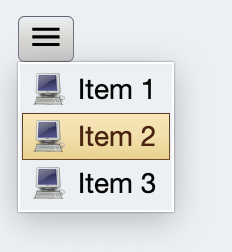
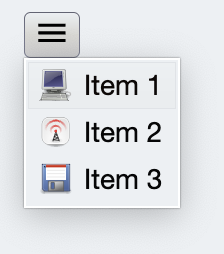
Tweak the command demo

Changed region(s): [[0.0625, 0.0278, 0.8125, 0.8611], [0.3438, 0.6667, 0.7188, 0.7778], [0.3438, 0.2778, 0.7188, 0.4167]]

diff --git a/demo/src/desktopMain/kotlin/org/pushingpixels/aurora/demo/CustomCommand.kt b/demo/src/desktopMain/kotlin/org/pushingpixels/aurora/demo/CustomCommand.kt
@@ -60,7 +60,7 @@ data class CustomMenuContentModel(
 
 class CommandButtonLayoutManagerCustom(
     override val layoutDirection: LayoutDirection,
-    private val _density: Density
+    _density: Density
 ) : CommandButtonLayoutManager {
     override val density = _density.density
     override val fontScale = _density.fontScale
@@ -98,7 +98,7 @@ class CommandButtonLayoutManagerCustom(
             texts = emptyList(),
             extraTexts = emptyList(),
             isTextInActionArea = false,
-            separatorOrientation = CommandButtonLayoutManager.CommandButtonSeparatorOrientation.Vertical,
+            separatorOrientation = null,
             showPopupIcon = false
         )
     }
@@ -110,10 +110,10 @@ class CommandButtonLayoutManagerCustom(
         preLayoutInfo: CommandButtonLayoutManager.CommandButtonPreLayoutInfo
     ): CommandButtonLayoutManager.CommandButtonLayoutInfo {
         val preferredSize = getPreferredSize(command, presentationModel, preLayoutInfo)
-        val paddingTop = presentationModel.verticalGapScaleFactor *
-                presentationModel.contentPadding.topPadding.toPx()
-        val paddingBottom = presentationModel.verticalGapScaleFactor *
-                presentationModel.contentPadding.bottomPadding.toPx()
+
+        val paddingValues = presentationModel.contentPadding
+        val paddingTop = presentationModel.verticalGapScaleFactor * paddingValues.topPadding.toPx()
+        val paddingBottom = presentationModel.verticalGapScaleFactor * paddingValues.bottomPadding.toPx()
 
         val iconWidth = getPreferredIconSize(command, presentationModel).width.toPx()
         val iconHeight = getPreferredIconSize(command, presentationModel).height.toPx()
@@ -152,8 +152,6 @@ class CommandButtonLayoutManagerCustom(
         if (constraints.hasFixedHeight && (constraints.maxHeight > 0)) {
             finalHeight = constraints.maxHeight.toFloat()
         }
-
-        val paddingValues = presentationModel.contentPadding
 
         val iconTop = paddingTop + (finalHeight - iconHeight - paddingTop - paddingBottom) / 2
         val iconRect = if (ltr) {

diff --git a/demo/src/desktopMain/kotlin/org/pushingpixels/aurora/demo/AuroraCommandDemo.kt b/demo/src/desktopMain/kotlin/org/pushingpixels/aurora/demo/AuroraCommandDemo.kt
@@ -830,12 +830,12 @@ fun AuroraWindowScope.DemoCommandContent(
                                     isActionEnabled = actionEnabled
                                 ), Command(
                                     text = entrySimpleMf.format(arrayOf<Any>(2)),
-                                    icon = computer(),
+                                    icon = network_wireless(),
                                     action = { println("secondary 2 activated!") },
                                     isActionEnabled = actionEnabled
                                 ), Command(
                                     text = entrySimpleMf.format(arrayOf<Any>(3)),
-                                    icon = computer(),
+                                    icon = media_floppy(),
                                     action = { println("secondary 3 activated!") },
                                     isActionEnabled = actionEnabled
                                 )

diff --git a/docs/component/CustomCommandProjections.md b/docs/component/CustomCommandProjections.md
@@ -9,7 +9,7 @@ As detailed in the [overview documentation](MoreCommands.md), Aurora commands ar
 
 Let's take a look at all the pieces that participate in creating a custom application command button projection that looks like this:
 
-<img src="https://raw.githubusercontent.com/kirill-grouchnikov/aurora/icicle/docs/images/component/walkthrough/command-custom-popup-simple.png" width="116" height="126" border=0/>
+<img src="https://raw.githubusercontent.com/kirill-grouchnikov/aurora/icicle/docs/images/component/walkthrough/command-custom-popup-simple.png" width="112" height="127" border=0/>
 
 The requirements are:
 
@@ -201,10 +201,10 @@ override fun getLayoutInfo(
     preLayoutInfo: CommandButtonLayoutManager.CommandButtonPreLayoutInfo
 ): CommandButtonLayoutManager.CommandButtonLayoutInfo {
     val preferredSize = getPreferredSize(command, presentationModel, preLayoutInfo)
-    val paddingTop = presentationModel.verticalGapScaleFactor *
-            presentationModel.contentPadding.topPadding.toPx()
-    val paddingBottom = presentationModel.verticalGapScaleFactor *
-            presentationModel.contentPadding.bottomPadding.toPx()
+
+    val paddingValues = presentationModel.contentPadding
+    val paddingTop = presentationModel.verticalGapScaleFactor * paddingValues.topPadding.toPx()
+    val paddingBottom = presentationModel.verticalGapScaleFactor * paddingValues.bottomPadding.toPx()
 
     val iconWidth = getPreferredIconSize(command, presentationModel).width.toPx()
     val iconHeight = getPreferredIconSize(command, presentationModel).height.toPx()
@@ -219,8 +219,6 @@ override fun getLayoutInfo(
     var shiftX = ...
     var finalWidth = ...
     var finalHeight = ...
-
-    val paddingValues = presentationModel.contentPadding
 
     val iconTop = paddingTop + (finalHeight - iconHeight - paddingTop - paddingBottom) / 2
     val iconRect = if (ltr) {
